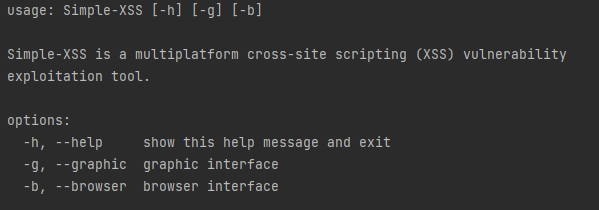
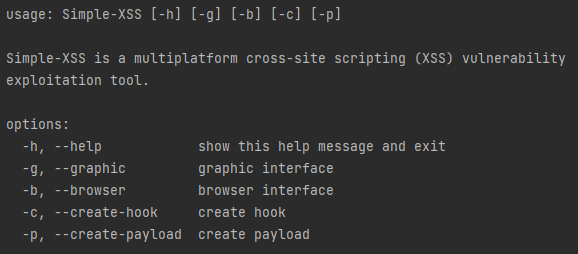
Update: io

diff --git a/app/runner.py b/app/runner.py
@@ -7,6 +7,7 @@ from app.hook import Hook, DefaultHook
 from app.payload import DefaultPayload
 from app.utils import observer, url
 from app.exceptions import HTTPTunnelError
+from app.io import IOManager
 
 
 class Runner:
@@ -48,10 +49,13 @@ class DefaultRunner(Runner):
     hook_loaded = observer.AsyncEvent()
     payload_uploaded = observer.AsyncEvent()
 
-    client_hooked = observer.AsyncEvent()
-    client_escaped = observer.AsyncEvent()
+    client_connected = observer.AsyncEvent()
+    client_disconnected = observer.AsyncEvent()
 
-    def __init__(self, options: Options):
+    def __init__(self, options: Options, io: IOManager):
+        import payload
+        payload.io = io
+        self._io = io
         self._options = options
         self._env = Environment(self._options.public_url)
         self._server = DefaultWebsocketServer(options.host, options.port)
@@ -60,18 +64,26 @@ class DefaultRunner(Runner):
         self._stop = False
 
         LocalWebsocketServer.client_connected.add_listener(self._on_client_connected)
-        LocalWebsocketServer.client_disconnected.add_listener(self.client_escaped)
-        LocalWebsocketServer.stopped.add_listener(self.server_stopped)
-        LocalWebsocketServer.launched.add_listener(self.server_launched)
+        LocalWebsocketServer.client_disconnected.add_listener(self._on_client_disconnected)
+        LocalWebsocketServer.stopped.add_listener(self._on_server_stopped)
+        LocalWebsocketServer.launched.add_listener(self._on_server_launched)
+
+        HTTPTunnelingAppWrapper.stopped.add_listener(self._on_tunneling_app_stopped)
 
     async def _on_client_connected(self, session: ClientSession):
-        await self.client_hooked(session=session)
+        await self.client_connected(session=session)
+        self._io.print_pos(f'Client hooked: {session.connection.origin}')
         payload = DefaultPayload.load(self._options.payload_path, environment=self._env)
         session.environment = self._env
         session.payload = payload
         session.hook = self._hook
         await self._server.send(session=session, message=str(payload))
         await self.payload_uploaded(session=session)
+        self._io.print_debug(f'Payload uploaded: {session.connection.origin}')
+
+    async def _on_client_disconnected(self, session: ClientSession):
+        await self.client_disconnected(session=session)
+        self._io.print_debug(f'Client escaped: {session.connection.origin}')
 
     async def _run_tunneling_app(self):
         try:
@@ -87,8 +99,23 @@ class DefaultRunner(Runner):
             self._options.public_url = url.convert_url(self._tunneling_app.public_url)
 
             await self.tunneling_app_launched(public_url=self._options.public_url)
+            self._io.print_debug(
+                f'Tunneling app is up: {self._options.public_url} -> {self._options.host}:{self._options.port}'
+            )
         except (HTTPTunnelError, TypeError) as e:
             await self.tunneling_app_launching_error(error=e)
+            self._io.print_debug(f'Failed to open tunnel')
+
+    async def _on_server_launched(self, host, port):
+        await self.server_launched(host=host, port=port)
+        self._io.print_debug(f'Local server is listening: {self._options.host}:{self._options.port}')
+
+    async def _on_server_stopped(self, host, port):
+        await self.server_stopped(host=host, port=port)
+        self._io.print_debug(f'Local server stopped')
+
+    async def _on_tunneling_app_stopped(self, public_url: str):
+        self._io.print_debug(f'Tunneling app stopped')
 
     async def _run_server(self):
         await self._server.run()
@@ -96,6 +123,7 @@ class DefaultRunner(Runner):
     async def _load_hook(self):
         self._hook = DefaultHook.load(self._options.hook_path, environment=self._env)
         await self.hook_loaded(hook=self._hook)
+        self._io.print_pos('Hook:', self._hook)
 
     @property
     def hook(self) -> Hook:

diff --git a/app/cli/cli.py b/app/cli/cli.py
@@ -17,33 +17,15 @@ class CLI(App):
     def __init__(self, *args, **kwargs):
         super().__init__(*args, **kwargs)
 
-
         try:
             self._options = Options.load()
         except OptionsLoadingError:
             self._options = Options()
 
-        self._runner = DefaultRunner(options=self._options)
-
-        DefaultRunner.tunneling_app_launched.add_listener(self._on_tunneling_app_launched)
-        DefaultRunner.tunneling_app_launching_error.add_listener(self._on_tunneling_app_error)
-        DefaultRunner.public_url_unspecified_error.add_listener(self._on_public_url_unspecified_error)
-        DefaultRunner.hook_loaded.add_listener(self._on_hook_loaded)
-        DefaultRunner.payload_uploaded.add_listener(self._on_payload_uploaded)
-        DefaultRunner.client_hooked.add_listener(self._on_client_hooked)
-        DefaultRunner.server_launched.add_listener(self._on_server_launched)
-
-    async def _on_client_hooked(self, session: ClientSession):
-        cli.print_pos(f'Client hooked: {session.connection.origin}')
-
-    async def _on_client_escaped(self, session: ClientSession):
-        cli.print_pos(f'Client escaped: {session.connection.origin}')
-
-    async def _on_payload_uploaded(self, session: ClientSession):
-        cli.print_pos(f'Payload sent: {session.payload.metadata.name}')
-
-    async def _on_hook_loaded(self, hook):
-        cli.print_pos('Hook:', hook)
+        self._runner = DefaultRunner(
+            options=self._options,
+            io=CLIIOManager()
+        )
 
     async def _on_public_url_unspecified_error(self):
         self._options.public_url = url.convert_url(cli.ask_validated(
@@ -51,15 +33,6 @@ class CLI(App):
             validator=validate_url,
             default=self._options.public_url
         ))
-
-    async def _on_tunneling_app_launched(self, public_url: str):
-        cli.print_pos(f'Tunneling app is up: {public_url} -> {self._options.host}:{self._options.port}')
-
-    async def _on_tunneling_app_error(self, error: Exception):
-        cli.print_neg(f'Failed to open tunnel')
-
-    async def _on_server_launched(self, host, port):
-        cli.print_pos(f'Local server app is listening: {self._options.host}:{self._options.port}')
 
     async def run(self):
         payload.io = CLIIOManager()

diff --git a/app/gui/main.py b/app/gui/main.py
@@ -1,9 +1,10 @@
 import asyncio
-from time import sleep
-
+import payload
 import flet as ft
 
+from time import sleep
 from app.exceptions import OptionsLoadingError
+from app.session import ClientSession
 from app.hook import DefaultHook
 from app.options import Options
 from app.payload import DefaultPayload
@@ -34,10 +35,19 @@ def main(page: ft.Page):
     except OptionsLoadingError:
         options = Options()
 
-    runner = DefaultRunner(options=options)
+    runner = DefaultRunner(options=options, io=GUIIOManager())
 
     def on_print(args: tuple[str]):
         add_message(' '.join(map(str, args)))
+
+    def on_print_pos(args: tuple[str]):
+        add_message(' '.join(map(str, args)), color='green')
+
+    def on_print_neg(args: tuple[str]):
+        add_message(' '.join(map(str, args)), color='red')
+
+    def on_print_debug(args: tuple[str]):
+        add_message(' '.join(map(str, args)), color='blue')
 
     def on_input(prompt: str):
         nonlocal message_entered
@@ -100,9 +110,15 @@ def main(page: ft.Page):
         asyncio.run(runner.stop())
         page.update()
 
-    def add_message(message: str):
+    def add_message(message: str, color: str = None, bg_color: str = None):
         message_box.controls.append(
-            ft.Text(value=message, size=MESSAGE_FONT_SIZE, selectable=True)
+            ft.Text(
+                value=message,
+                size=MESSAGE_FONT_SIZE,
+                selectable=True,
+                color=color,
+                bgcolor=bg_color
+            )
         )
         page.update()
 
@@ -475,7 +491,10 @@ def main(page: ft.Page):
 
     DefaultRunner.hook_loaded.add_listener(on_hook_loaded)
 
-    GUIIOManager.printed.add_listener(on_print)
-    GUIIOManager.wait_input.set_listener(on_input)
+    GUIIOManager.print_event.add_listener(on_print)
+    GUIIOManager.input_event.set_listener(on_input)
+    GUIIOManager.print_pos_event.add_listener(on_print_pos)
+    GUIIOManager.print_neg_event.add_listener(on_print_neg)
+    GUIIOManager.print_debug_event.add_listener(on_print_debug)
 
     page.add(main_box)

diff --git a/app/gui/io.py b/app/gui/io.py
@@ -3,11 +3,24 @@ from app.utils import observer
 
 
 class GUIIOManager(IOManager):
-    printed = observer.Event()
-    wait_input = observer.ResultEvent()
+    print_event = observer.Event()
+    input_event = observer.ResultEvent()
+    print_pos_event = observer.Event()
+    print_neg_event = observer.Event()
+    print_debug_event = observer.Event()
 
     def print(self, *args):
-        self.printed(args=args)
+        self.print_event(args=args)
+
+    def print_debug(self, *args):
+        if self.debug:
+            self.print_debug_event(args=args)
+
+    def print_pos(self, *args):
+        self.print_pos_event(args=args)
+
+    def print_neg(self, *args):
+        self.print_neg_event(args=args)
 
     def input(self, prompt: str):
-        return self.wait_input(prompt=prompt)
+        return self.input_event(prompt=prompt)

diff --git a/app/io.py b/app/io.py
@@ -4,7 +4,18 @@ from app.utils import clss
 class IOManager(metaclass=clss.SingletonMeta):
     """Allows you to work with input and output with any interface. See payloads for more info"""
 
+    debug: bool = True
+
     def print(self, *args) -> None:
+        raise NotImplementedError
+
+    def print_debug(self, *args):
+        raise NotImplementedError
+
+    def print_pos(self, *args):
+        raise NotImplementedError
+
+    def print_neg(self, *args):
         raise NotImplementedError
 
     def input(self, prompt: str) -> str | None:

diff --git a/app/cli/io.py b/app/cli/io.py
@@ -1,9 +1,20 @@
 from app.io import IOManager
+from app.utils import cli
 
 
 class CLIIOManager(IOManager):
     def print(self, *args):
         print(*args)
+
+    def print_pos(self, *args):
+        cli.print_pos(*args)
+
+    def print_neg(self, *args):
+        cli.print_neg(*args)
+
+    def print_debug(self, *args):
+        if self.debug:
+            cli.print_status(*args)
 
     def input(self, prompt: str):
         return input(prompt)

diff --git a/main.py b/main.py
@@ -50,13 +50,13 @@ def parse_args() -> argparse.Namespace:
         '-c',
         '--create-hook',
         action='store_true',
-        help='runs hook creation script'
+        help='create hook'
     )
     parser.add_argument(
         '-p',
         '--create-payload',
         action='store_true',
-        help='runs payload creation script'
+        help='create payload'
     )
     return parser.parse_args()
 

diff --git a/app/utils/cli/printutils.py b/app/utils/cli/printutils.py
@@ -45,6 +45,12 @@ def print_neg(*values, sep=' ', end='\n'):
     reset_styles()
 
 
+def print_status(*values, sep=' ', end='\n'):
+    colorize(color=PRINT_STYLES['status'])
+    print_prefixed('[~]', *values, sep=sep, end=end)
+    reset_styles()
+
+
 def print_question(*values, sep=' ', end='\n'):
     """Prints question with prefix [?]"""
 

diff --git a/app/utils/cli/__init__.py b/app/utils/cli/__init__.py
@@ -13,7 +13,8 @@ from .printutils import (
     print_colored,
     print_question,
     print_pos,
-    print_neg
+    print_neg,
+    print_status
 )
 from .styles import PRINT_STYLES
 from . import exceptions
@@ -28,5 +29,6 @@ __all__ = [
     'print_pos',
     'print_neg',
     'print_colored',
+    'print_status',
     'PRINT_STYLES'
 ]

diff --git a/app/gui/gui.py b/app/gui/gui.py
@@ -10,5 +10,4 @@ class GUI(App):
     """Graphic User Interface"""
 
     async def run(self):
-        payload.io = GUIIOManager()
         ft.app(target=main, view=ft.AppView.FLET_APP if not self.args.browser else ft.AppView.WEB_BROWSER)

diff --git a/app/utils/cli/styles.py b/app/utils/cli/styles.py
@@ -3,5 +3,6 @@ import colorama
 PRINT_STYLES = {
     'positive': colorama.Fore.GREEN,
     'negative': colorama.Fore.RED,
-    'question': colorama.Fore.YELLOW
+    'question': colorama.Fore.YELLOW,
+    'status': colorama.Fore.BLUE
 }

diff --git a/settings.py b/settings.py
@@ -25,7 +25,7 @@ OPTIONS_FILE = 'options.toml'
 
 # app
 APP = 'Simple-XSS'
-VERSION = '0.1'
+VERSION = '0.2'
 
 # logging
 LOGGING_LEVEL = 0
